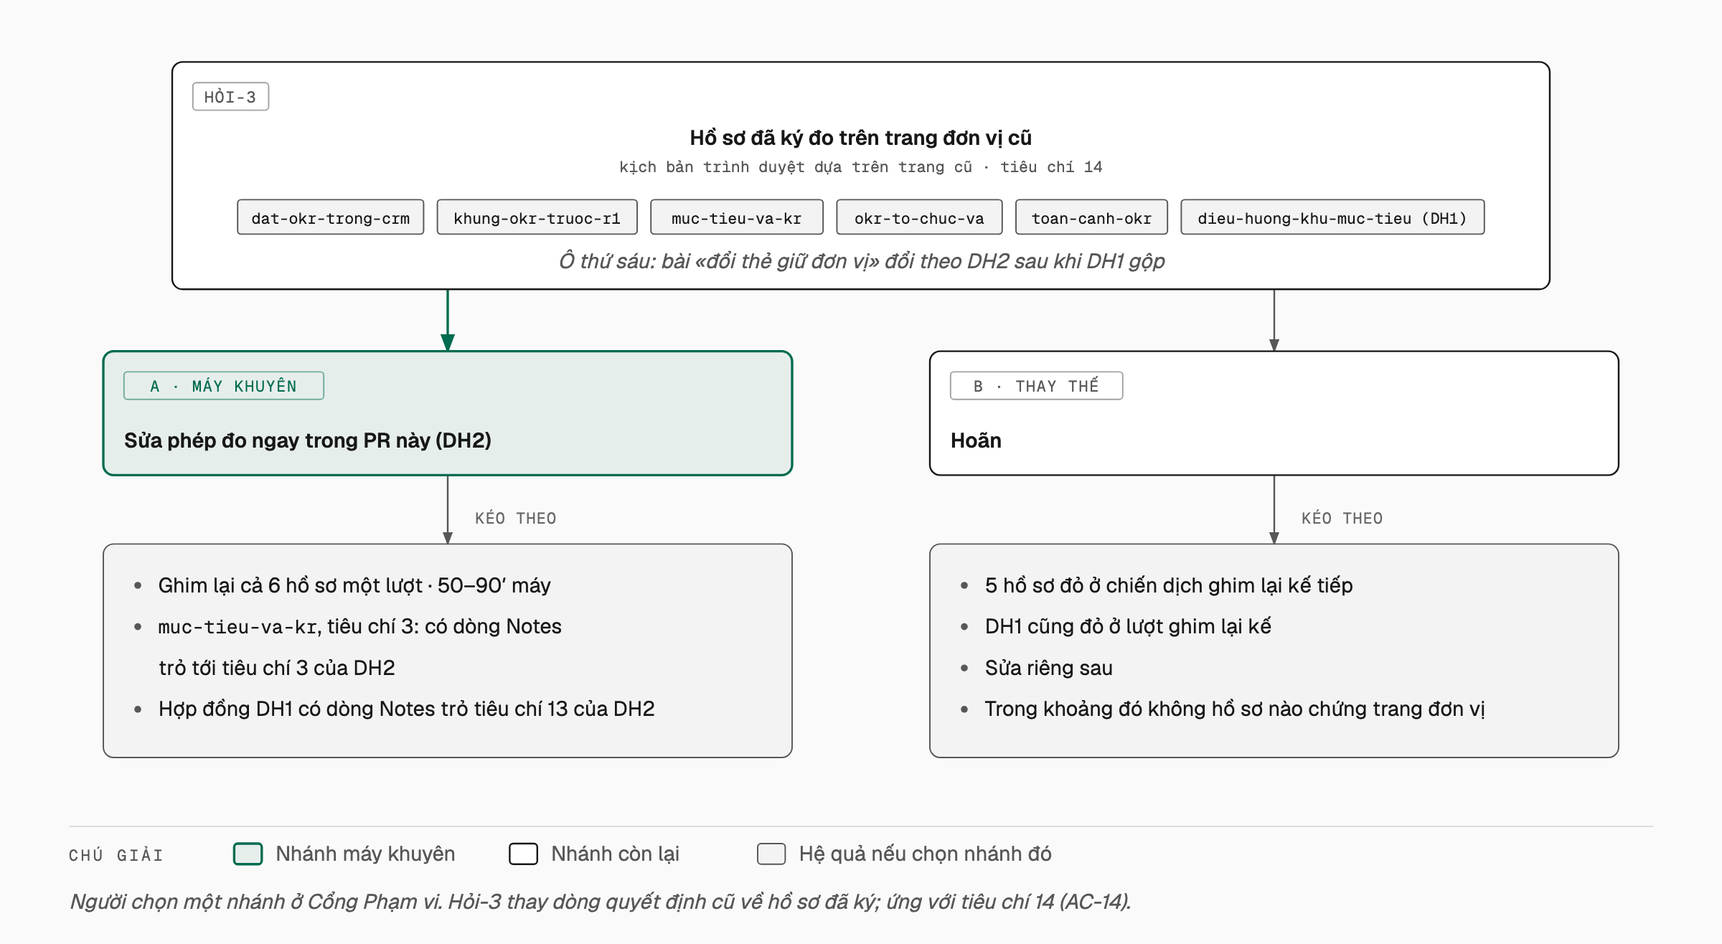
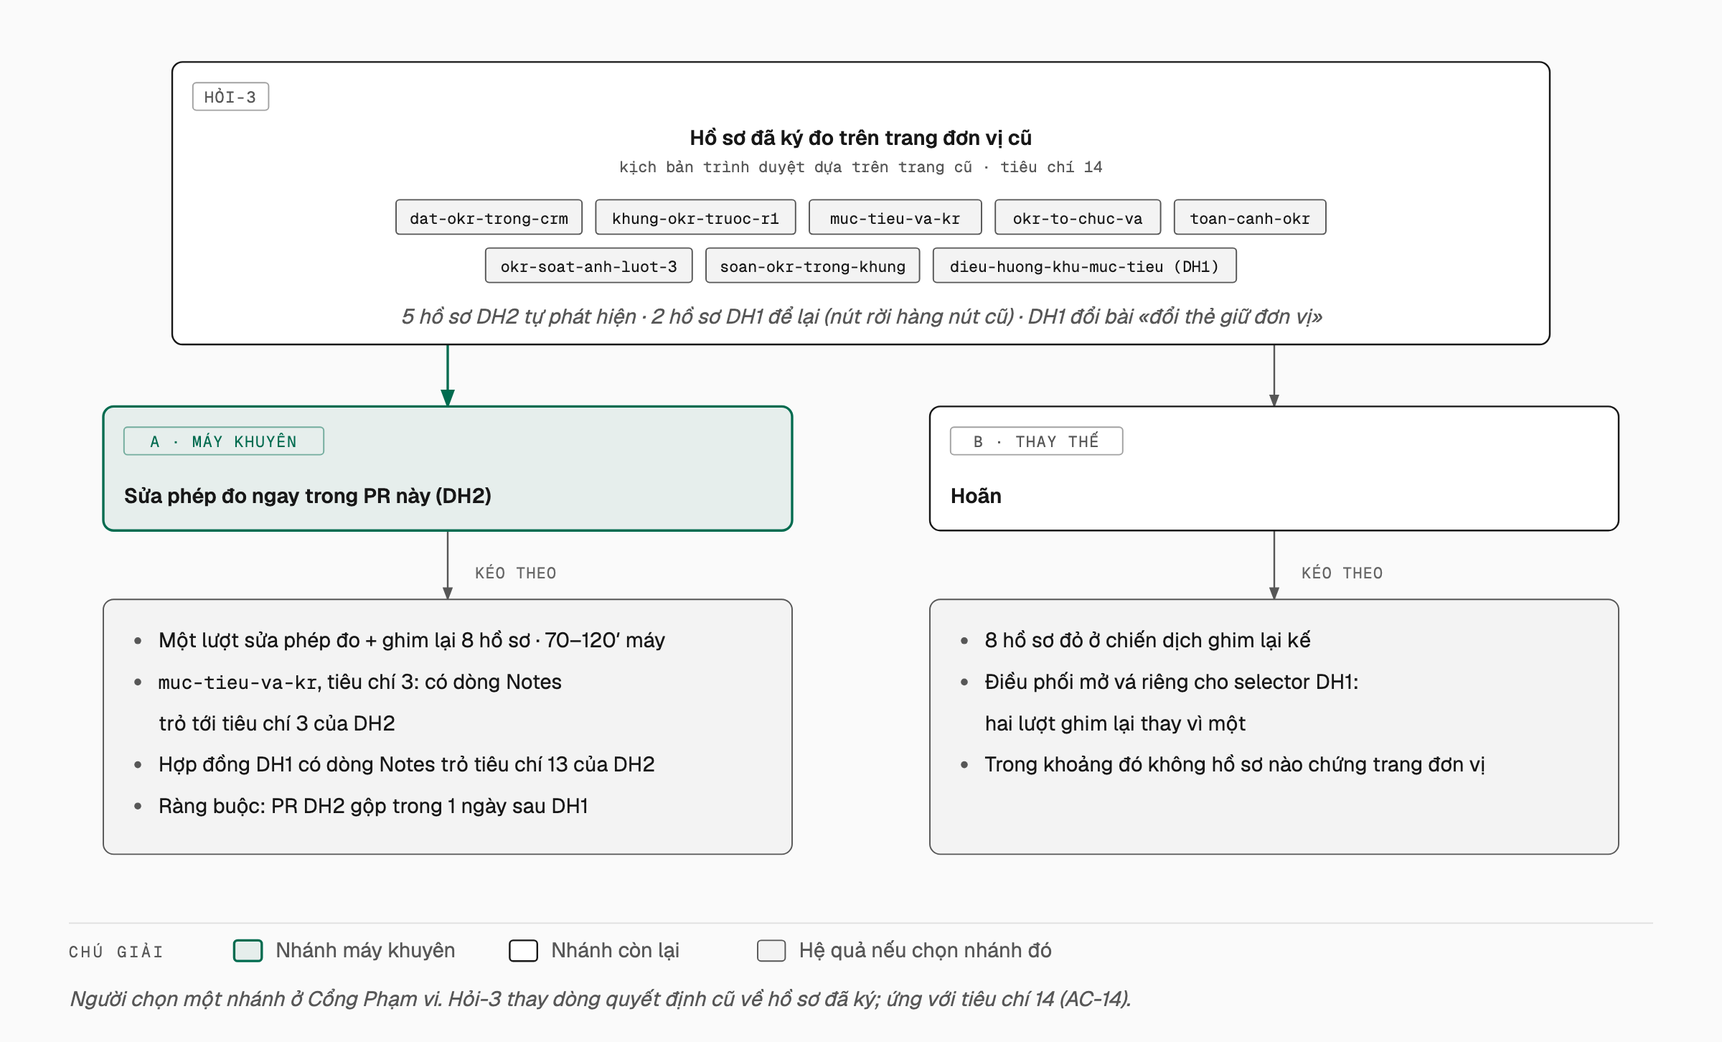
acceptance(trang-don-vi-mot-bang): Hỏi-3 thành một lượt ghim lại tám hồ sơ (gộp phần selector DH1, Điều phối M5 chia)

diff --git a/_acceptance/trang-don-vi-mot-bang/figures/hoi-3-nam-ho-so.html b/_acceptance/trang-don-vi-mot-bang/figures/hoi-3-nam-ho-so.html
@@ -27,24 +27,24 @@
   <div class="frame">
     <p class="eyebrow">Cổng Phạm vi · Hỏi-3</p>
     <h1>Hồ sơ đã ký đo trên trang cũ: sửa ngay hay hoãn?</h1>
-    <svg viewBox="0 0 1000 548" xmlns="http://www.w3.org/2000/svg" role="img" aria-label="Hỏi-3 · Hồ sơ đã ký đo trên trang cũ">
+    <svg viewBox="0 0 1000 604" xmlns="http://www.w3.org/2000/svg" role="img" aria-label="Hỏi-3 · Hồ sơ đã ký đo trên trang cũ">
       <defs>
         <marker id="arrow" markerWidth="8" markerHeight="6" refX="7" refY="3" orient="auto"><polygon points="0 0, 8 3, 0 6" fill="#575757"/></marker>
         <marker id="arrow-accent" markerWidth="8" markerHeight="6" refX="7" refY="3" orient="auto"><polygon points="0 0, 8 3, 0 6" fill="#006B4F"/></marker>
       </defs>
       <rect width="100%" height="100%" fill="#fafafa"/>
-<path d="M 260 168 L 260 204" fill="none" stroke="#006B4F" stroke-width="1.4" marker-end="url(#arrow-accent)"/>
-      <path d="M 740 168 L 740 204" fill="none" stroke="#575757" stroke-width="1" marker-end="url(#arrow)"/>
-      <path d="M 260 276 L 260 316" fill="none" stroke="#575757" stroke-width="1" marker-end="url(#arrow)"/>
-      <path d="M 740 276 L 740 316" fill="none" stroke="#575757" stroke-width="1" marker-end="url(#arrow)"/>
-      <rect x="272" y="292" width="64" height="16" rx="2" fill="#fafafa"/><text x="276" y="304" fill="#666666" font-size="9" font-family="'Geist Mono', monospace" letter-spacing="0.06em">KÉO THEO</text>
-      <rect x="752" y="292" width="64" height="16" rx="2" fill="#fafafa"/><text x="756" y="304" fill="#666666" font-size="9" font-family="'Geist Mono', monospace" letter-spacing="0.06em">KÉO THEO</text>
-      <rect x="100" y="36" width="800" height="132" rx="6" fill="#fafafa"/><rect x="100" y="36" width="800" height="132" rx="6" fill="#ffffff" stroke="#171717" stroke-width="1"/><rect x="112" y="48" width="44" height="16" rx="2" fill="transparent" stroke="rgba(23,23,23,0.4)" stroke-width="0.8"/><text x="134.0" y="59.5" fill="#575757" font-size="9" font-family="'Geist Mono', monospace" text-anchor="middle" letter-spacing="0.08em">HỎI-3</text><text x="500.0" y="84" fill="#171717" font-size="12" font-weight="600" font-family="'Geist', sans-serif" text-anchor="middle">Hồ sơ đã ký đo trên trang đơn vị cũ</text><text x="500.0" y="100" fill="#575757" font-size="9" font-family="'Geist Mono', monospace" text-anchor="middle">kịch bản trình duyệt dựa trên trang cũ · tiêu chí 14</text><rect x="138.0" y="116" width="108" height="20" rx="2" fill="rgba(23,23,23,0.05)" stroke="#575757" stroke-width="0.8"/><text x="192.0" y="130" fill="#171717" font-size="9" font-family="'Geist Mono', monospace" text-anchor="middle">dat-okr-trong-crm</text><rect x="254.0" y="116" width="116" height="20" rx="2" fill="rgba(23,23,23,0.05)" stroke="#575757" stroke-width="0.8"/><text x="312.0" y="130" fill="#171717" font-size="9" font-family="'Geist Mono', monospace" text-anchor="middle">khung-okr-truoc-r1</text><rect x="378.0" y="116" width="100" height="20" rx="2" fill="rgba(23,23,23,0.05)" stroke="#575757" stroke-width="0.8"/><text x="428.0" y="130" fill="#171717" font-size="9" font-family="'Geist Mono', monospace" text-anchor="middle">muc-tieu-va-kr</text><rect x="486.0" y="116" width="96" height="20" rx="2" fill="rgba(23,23,23,0.05)" stroke="#575757" stroke-width="0.8"/><text x="534.0" y="130" fill="#171717" font-size="9" font-family="'Geist Mono', monospace" text-anchor="middle">okr-to-chuc-va</text><rect x="590.0" y="116" width="88" height="20" rx="2" fill="rgba(23,23,23,0.05)" stroke="#575757" stroke-width="0.8"/><text x="634.0" y="130" fill="#171717" font-size="9" font-family="'Geist Mono', monospace" text-anchor="middle">toan-canh-okr</text><rect x="686.0" y="116" width="176" height="20" rx="2" fill="rgba(23,23,23,0.05)" stroke="#575757" stroke-width="0.8"/><text x="774.0" y="130" fill="#171717" font-size="9" font-family="'Geist Mono', monospace" text-anchor="middle">dieu-huong-khu-muc-tieu (DH1)</text><text x="500" y="156" fill="#575757" font-size="12" font-family="'Geist', sans-serif" font-style="italic" text-anchor="middle">Ô thứ sáu: bài «đổi thẻ giữ đơn vị» đổi theo DH2 sau khi DH1 gộp</text>
-      <rect x="60" y="204" width="400" height="72" rx="6" fill="#fafafa"/><rect x="60" y="204" width="400" height="72" rx="6" fill="rgba(0,107,79,0.08)" stroke="#006B4F" stroke-width="1.4"/><rect x="72" y="216" width="116" height="16" rx="2" fill="transparent" stroke="rgba(0,107,79,0.5)" stroke-width="0.8"/><text x="130.0" y="227.5" fill="#006B4F" font-size="9" font-family="'Geist Mono', monospace" text-anchor="middle" letter-spacing="0.08em">A · MÁY KHUYÊN</text><text x="72" y="260" fill="#171717" font-size="12" font-weight="600" font-family="'Geist', sans-serif">Sửa phép đo ngay trong PR này (DH2)</text>
-      <rect x="540" y="204" width="400" height="72" rx="6" fill="#fafafa"/><rect x="540" y="204" width="400" height="72" rx="6" fill="#ffffff" stroke="#171717" stroke-width="1"/><rect x="552" y="216" width="100" height="16" rx="2" fill="transparent" stroke="rgba(23,23,23,0.4)" stroke-width="0.8"/><text x="602.0" y="227.5" fill="#575757" font-size="9" font-family="'Geist Mono', monospace" text-anchor="middle" letter-spacing="0.08em">B · THAY THẾ</text><text x="552" y="260" fill="#171717" font-size="12" font-weight="600" font-family="'Geist', sans-serif">Hoãn</text>
-      <rect x="60" y="316" width="400" height="124" rx="6" fill="#fafafa"/><rect x="60" y="316" width="400" height="124" rx="6" fill="rgba(23,23,23,0.03)" stroke="#575757" stroke-width="0.8"/><circle cx="80" cy="340" r="2" fill="#575757"/><text x="92" y="344" fill="#171717" font-size="12" font-family="'Geist', sans-serif">Ghim lại cả 6 hồ sơ một lượt · 50–90′ máy</text><circle cx="80" cy="364" r="2" fill="#575757"/><text x="92" y="368" fill="#171717" font-size="12" font-family="'Geist', sans-serif"><tspan font-family="'Geist Mono', monospace" font-size="11">muc-tieu-va-kr</tspan>, tiêu chí 3: có dòng Notes</text><text x="92" y="392" fill="#171717" font-size="12" font-family="'Geist', sans-serif">trỏ tới tiêu chí 3 của DH2</text><circle cx="80" cy="412" r="2" fill="#575757"/><text x="92" y="416" fill="#171717" font-size="12" font-family="'Geist', sans-serif">Hợp đồng DH1 có dòng Notes trỏ tiêu chí 13 của DH2</text>
-      <rect x="540" y="316" width="400" height="124" rx="6" fill="#fafafa"/><rect x="540" y="316" width="400" height="124" rx="6" fill="rgba(23,23,23,0.03)" stroke="#575757" stroke-width="0.8"/><circle cx="560" cy="340" r="2" fill="#575757"/><text x="572" y="344" fill="#171717" font-size="12" font-family="'Geist', sans-serif">5 hồ sơ đỏ ở chiến dịch ghim lại kế tiếp</text><circle cx="560" cy="364" r="2" fill="#575757"/><text x="572" y="368" fill="#171717" font-size="12" font-family="'Geist', sans-serif">DH1 cũng đỏ ở lượt ghim lại kế</text><circle cx="560" cy="388" r="2" fill="#575757"/><text x="572" y="392" fill="#171717" font-size="12" font-family="'Geist', sans-serif">Sửa riêng sau</text><circle cx="560" cy="412" r="2" fill="#575757"/><text x="572" y="416" fill="#171717" font-size="12" font-family="'Geist', sans-serif">Trong khoảng đó không hồ sơ nào chứng trang đơn vị</text>
-      <line x1="40" y1="480" x2="960" y2="480" stroke="rgba(23,23,23,0.12)" stroke-width="0.8"/><text x="40" y="500" fill="#575757" font-size="9" font-family="'Geist Mono', monospace" letter-spacing="0.18em">CHÚ GIẢI</text><rect x="136" y="490" width="16" height="12" rx="2" fill="rgba(0,107,79,0.08)" stroke="#006B4F" stroke-width="1.4"/><text x="160" y="500" fill="#575757" font-size="12" font-family="'Geist', sans-serif">Nhánh máy khuyên</text><rect x="296" y="490" width="16" height="12" rx="2" fill="#ffffff" stroke="#171717" stroke-width="1"/><text x="320" y="500" fill="#575757" font-size="12" font-family="'Geist', sans-serif">Nhánh còn lại</text><rect x="440" y="490" width="16" height="12" rx="2" fill="rgba(23,23,23,0.03)" stroke="#575757" stroke-width="0.8"/><text x="464" y="500" fill="#575757" font-size="12" font-family="'Geist', sans-serif">Hệ quả nếu chọn nhánh đó</text><text x="40" y="528" fill="#575757" font-size="12" font-family="'Geist', sans-serif" font-style="italic">Người chọn một nhánh ở Cổng Phạm vi. Hỏi-3 thay dòng quyết định cũ về hồ sơ đã ký; ứng với tiêu chí 14 (AC-14).</text>
+<path d="M 260 200 L 260 236" fill="none" stroke="#006B4F" stroke-width="1.4" marker-end="url(#arrow-accent)"/>
+      <path d="M 740 200 L 740 236" fill="none" stroke="#575757" stroke-width="1" marker-end="url(#arrow)"/>
+      <path d="M 260 308 L 260 348" fill="none" stroke="#575757" stroke-width="1" marker-end="url(#arrow)"/>
+      <path d="M 740 308 L 740 348" fill="none" stroke="#575757" stroke-width="1" marker-end="url(#arrow)"/>
+      <rect x="272" y="324" width="64" height="16" rx="2" fill="#fafafa"/><text x="276" y="336" fill="#666666" font-size="9" font-family="'Geist Mono', monospace" letter-spacing="0.06em">KÉO THEO</text>
+      <rect x="752" y="324" width="64" height="16" rx="2" fill="#fafafa"/><text x="756" y="336" fill="#666666" font-size="9" font-family="'Geist Mono', monospace" letter-spacing="0.06em">KÉO THEO</text>
+      <rect x="100" y="36" width="800" height="164" rx="6" fill="#fafafa"/><rect x="100" y="36" width="800" height="164" rx="6" fill="#ffffff" stroke="#171717" stroke-width="1"/><rect x="112" y="48" width="44" height="16" rx="2" fill="transparent" stroke="rgba(23,23,23,0.4)" stroke-width="0.8"/><text x="134.0" y="59.5" fill="#575757" font-size="9" font-family="'Geist Mono', monospace" text-anchor="middle" letter-spacing="0.08em">HỎI-3</text><text x="500.0" y="84" fill="#171717" font-size="12" font-weight="600" font-family="'Geist', sans-serif" text-anchor="middle">Hồ sơ đã ký đo trên trang đơn vị cũ</text><text x="500.0" y="100" fill="#575757" font-size="9" font-family="'Geist Mono', monospace" text-anchor="middle">kịch bản trình duyệt dựa trên trang cũ · tiêu chí 14</text><rect x="230.0" y="116" width="108" height="20" rx="2" fill="rgba(23,23,23,0.05)" stroke="#575757" stroke-width="0.8"/><text x="284.0" y="130" fill="#171717" font-size="9" font-family="'Geist Mono', monospace" text-anchor="middle">dat-okr-trong-crm</text><rect x="346.0" y="116" width="116" height="20" rx="2" fill="rgba(23,23,23,0.05)" stroke="#575757" stroke-width="0.8"/><text x="404.0" y="130" fill="#171717" font-size="9" font-family="'Geist Mono', monospace" text-anchor="middle">khung-okr-truoc-r1</text><rect x="470.0" y="116" width="100" height="20" rx="2" fill="rgba(23,23,23,0.05)" stroke="#575757" stroke-width="0.8"/><text x="520.0" y="130" fill="#171717" font-size="9" font-family="'Geist Mono', monospace" text-anchor="middle">muc-tieu-va-kr</text><rect x="578.0" y="116" width="96" height="20" rx="2" fill="rgba(23,23,23,0.05)" stroke="#575757" stroke-width="0.8"/><text x="626.0" y="130" fill="#171717" font-size="9" font-family="'Geist Mono', monospace" text-anchor="middle">okr-to-chuc-va</text><rect x="682.0" y="116" width="88" height="20" rx="2" fill="rgba(23,23,23,0.05)" stroke="#575757" stroke-width="0.8"/><text x="726.0" y="130" fill="#171717" font-size="9" font-family="'Geist Mono', monospace" text-anchor="middle">toan-canh-okr</text><rect x="282.0" y="144" width="120" height="20" rx="2" fill="rgba(23,23,23,0.05)" stroke="#575757" stroke-width="0.8"/><text x="342.0" y="158" fill="#171717" font-size="9" font-family="'Geist Mono', monospace" text-anchor="middle">okr-soat-anh-luot-3</text><rect x="410.0" y="144" width="124" height="20" rx="2" fill="rgba(23,23,23,0.05)" stroke="#575757" stroke-width="0.8"/><text x="472.0" y="158" fill="#171717" font-size="9" font-family="'Geist Mono', monospace" text-anchor="middle">soan-okr-trong-khung</text><rect x="542.0" y="144" width="176" height="20" rx="2" fill="rgba(23,23,23,0.05)" stroke="#575757" stroke-width="0.8"/><text x="630.0" y="158" fill="#171717" font-size="9" font-family="'Geist Mono', monospace" text-anchor="middle">dieu-huong-khu-muc-tieu (DH1)</text><text x="500" y="188" fill="#575757" font-size="12" font-family="'Geist', sans-serif" font-style="italic" text-anchor="middle">5 hồ sơ DH2 tự phát hiện · 2 hồ sơ DH1 để lại (nút rời hàng nút cũ) · DH1 đổi bài «đổi thẻ giữ đơn vị»</text>
+      <rect x="60" y="236" width="400" height="72" rx="6" fill="#fafafa"/><rect x="60" y="236" width="400" height="72" rx="6" fill="rgba(0,107,79,0.08)" stroke="#006B4F" stroke-width="1.4"/><rect x="72" y="248" width="116" height="16" rx="2" fill="transparent" stroke="rgba(0,107,79,0.5)" stroke-width="0.8"/><text x="130.0" y="259.5" fill="#006B4F" font-size="9" font-family="'Geist Mono', monospace" text-anchor="middle" letter-spacing="0.08em">A · MÁY KHUYÊN</text><text x="72" y="292" fill="#171717" font-size="12" font-weight="600" font-family="'Geist', sans-serif">Sửa phép đo ngay trong PR này (DH2)</text>
+      <rect x="540" y="236" width="400" height="72" rx="6" fill="#fafafa"/><rect x="540" y="236" width="400" height="72" rx="6" fill="#ffffff" stroke="#171717" stroke-width="1"/><rect x="552" y="248" width="100" height="16" rx="2" fill="transparent" stroke="rgba(23,23,23,0.4)" stroke-width="0.8"/><text x="602.0" y="259.5" fill="#575757" font-size="9" font-family="'Geist Mono', monospace" text-anchor="middle" letter-spacing="0.08em">B · THAY THẾ</text><text x="552" y="292" fill="#171717" font-size="12" font-weight="600" font-family="'Geist', sans-serif">Hoãn</text>
+      <rect x="60" y="348" width="400" height="148" rx="6" fill="#fafafa"/><rect x="60" y="348" width="400" height="148" rx="6" fill="rgba(23,23,23,0.03)" stroke="#575757" stroke-width="0.8"/><circle cx="80" cy="372" r="2" fill="#575757"/><text x="92" y="376" fill="#171717" font-size="12" font-family="'Geist', sans-serif">Một lượt sửa phép đo + ghim lại 8 hồ sơ · 70–120′ máy</text><circle cx="80" cy="396" r="2" fill="#575757"/><text x="92" y="400" fill="#171717" font-size="12" font-family="'Geist', sans-serif"><tspan font-family="'Geist Mono', monospace" font-size="11">muc-tieu-va-kr</tspan>, tiêu chí 3: có dòng Notes</text><text x="92" y="424" fill="#171717" font-size="12" font-family="'Geist', sans-serif">trỏ tới tiêu chí 3 của DH2</text><circle cx="80" cy="444" r="2" fill="#575757"/><text x="92" y="448" fill="#171717" font-size="12" font-family="'Geist', sans-serif">Hợp đồng DH1 có dòng Notes trỏ tiêu chí 13 của DH2</text><circle cx="80" cy="468" r="2" fill="#575757"/><text x="92" y="472" fill="#171717" font-size="12" font-family="'Geist', sans-serif">Ràng buộc: PR DH2 gộp trong 1 ngày sau DH1</text>
+      <rect x="540" y="348" width="400" height="148" rx="6" fill="#fafafa"/><rect x="540" y="348" width="400" height="148" rx="6" fill="rgba(23,23,23,0.03)" stroke="#575757" stroke-width="0.8"/><circle cx="560" cy="372" r="2" fill="#575757"/><text x="572" y="376" fill="#171717" font-size="12" font-family="'Geist', sans-serif">8 hồ sơ đỏ ở chiến dịch ghim lại kế</text><circle cx="560" cy="396" r="2" fill="#575757"/><text x="572" y="400" fill="#171717" font-size="12" font-family="'Geist', sans-serif">Điều phối mở vá riêng cho selector DH1:</text><text x="572" y="424" fill="#171717" font-size="12" font-family="'Geist', sans-serif">hai lượt ghim lại thay vì một</text><circle cx="560" cy="444" r="2" fill="#575757"/><text x="572" y="448" fill="#171717" font-size="12" font-family="'Geist', sans-serif">Trong khoảng đó không hồ sơ nào chứng trang đơn vị</text>
+      <line x1="40" y1="536" x2="960" y2="536" stroke="rgba(23,23,23,0.12)" stroke-width="0.8"/><text x="40" y="556" fill="#575757" font-size="9" font-family="'Geist Mono', monospace" letter-spacing="0.18em">CHÚ GIẢI</text><rect x="136" y="546" width="16" height="12" rx="2" fill="rgba(0,107,79,0.08)" stroke="#006B4F" stroke-width="1.4"/><text x="160" y="556" fill="#575757" font-size="12" font-family="'Geist', sans-serif">Nhánh máy khuyên</text><rect x="296" y="546" width="16" height="12" rx="2" fill="#ffffff" stroke="#171717" stroke-width="1"/><text x="320" y="556" fill="#575757" font-size="12" font-family="'Geist', sans-serif">Nhánh còn lại</text><rect x="440" y="546" width="16" height="12" rx="2" fill="rgba(23,23,23,0.03)" stroke="#575757" stroke-width="0.8"/><text x="464" y="556" fill="#575757" font-size="12" font-family="'Geist', sans-serif">Hệ quả nếu chọn nhánh đó</text><text x="40" y="584" fill="#575757" font-size="12" font-family="'Geist', sans-serif" font-style="italic">Người chọn một nhánh ở Cổng Phạm vi. Hỏi-3 thay dòng quyết định cũ về hồ sơ đã ký; ứng với tiêu chí 14 (AC-14).</text>
     </svg>
   </div>
 </body>

diff --git a/_acceptance/trang-don-vi-mot-bang/contract.md b/_acceptance/trang-don-vi-mot-bang/contract.md
@@ -38,7 +38,7 @@ Source input: hàng DH2 `docs/plan/lo-trinh-okr.json`; `docs/plan/pham-vi-okr-di
 - AC-11: Given `/proto/trang-don-vi-mot-bang` khi bật `PROTO_ROUTE=1`, When mở từng state, Then có đúng một state cho mỗi dòng của bảng trạng thái trong thiết kế, mỗi state cho một cây DOM khác nhau; phép đo sổ bản mẫu xanh.
 - AC-12: Given ảnh trang đơn vị ở Danh sách (thu và mở KR), Họp tuần, ô chọn đơn vị đang mở và Thoả thuận ở 1440 px và 390 px do E2 chụp, When một người không làm lượt này đặt cạnh nhau, Then họ đọc được trang đơn vị dùng cùng một khuôn bảng với Thoả thuận — ô chọn ở chỗ ô tìm kiếm, một hàng công cụ, bảng, chân bảng — và tìm được KR của một mục tiêu mà không cần đọc chữ hướng dẫn. (judgment)
 - AC-13: Given đang xem Theo đơn vị của đơn vị X ở cách xem V (Cây căn chỉnh, Họp tuần hoặc Chấm điểm) và chu kỳ K, When đi qua một thẻ khác của khu bằng thanh thẻ rồi quay lại Theo đơn vị, Then trang mở lại đúng X, K và cách xem V; liên kết của thanh thẻ mang `xemOkr` cùng `kyOkr`, `donOkr` khi đường dẫn đang có nó (bổ sung khoá thứ ba vào lời hứa «đổi thẻ giữ đơn vị và chu kỳ» của DH1, không mang khoá nào khác); cách xem không hợp với chu kỳ (Chấm điểm ngoài pha chấm) rơi về Danh sách như hôm nay; hợp đồng `dieu-huong-khu-muc-tieu` có một dòng Notes trỏ AC này ở hồ sơ này, vì lời hứa AC-6 của nó («không mang khoá nào khác») được nới thêm `xemOkr`.
-- AC-14: Given năm hồ sơ đã ký có kịch bản đo trình duyệt dựa trên trang đơn vị cũ — `dat-okr-trong-crm`, `khung-okr-truoc-r1`, `muc-tieu-va-kr`, `okr-to-chuc-va`, `toan-canh-okr` (bấm `[data-nut-cay]`, chờ `[data-hang-nut]`, đọc `thuMucTieu`, đi phím trên cây «Đơn vị») — When lượt sửa phép đo của chúng rồi chạy làn ghim lại tại một commit đã có trang mới, Then cả năm ghim xanh; mỗi chỗ sửa trong `rang/` của chúng chỉ đổi cách tới trạng thái (chọn đơn vị bằng `donOkr` hoặc ô chọn, thu/mở bằng `expand`) và không bỏ điều khẳng định nào khác; lời hứa đã ký nào trái trang mới (trang đơn vị mở sẵn mọi mục tiêu và nhớ dòng thu bằng `thuMucTieu` — AC-3 của `muc-tieu-va-kr`) có một dòng Notes trong hợp đồng của hồ sơ đó trỏ AC thay nó ở hồ sơ này.
+- AC-14: Given các hồ sơ đã ký có kịch bản đo trình duyệt dựa trên trang đơn vị trước DH1 và DH2 — `dat-okr-trong-crm`, `khung-okr-truoc-r1`, `muc-tieu-va-kr`, `okr-to-chuc-va`, `toan-canh-okr`, `okr-soat-anh-luot-3`, `soan-okr-trong-khung` (bấm `[data-nut-cay]`, chờ `[data-hang-nut]` hay `[data-nhom-soan]` trong thân, đọc `thuMucTieu`, đi phím trên cây «Đơn vị») cùng `dieu-huong-khu-muc-tieu` (bài `dhk-giu-don`, AC-13) — When lượt sửa phép đo của chúng (cả phần selector DH1 để lại, Điều phối M5 chia 15/10) rồi chạy MỘT lượt làn ghim lại tại một commit đã có trang mới, Then cả tám ghim xanh; mỗi chỗ sửa trong `rang/` của chúng chỉ đổi cách tới trạng thái (chọn đơn vị bằng `donOkr` hoặc ô chọn, thu/mở bằng `expand`) và không bỏ điều khẳng định nào khác; lời hứa đã ký nào trái trang mới (trang đơn vị mở sẵn mọi mục tiêu và nhớ dòng thu bằng `thuMucTieu` — AC-3 của `muc-tieu-va-kr`) có một dòng Notes trong hợp đồng của hồ sơ đó trỏ AC thay nó ở hồ sơ này.
 
 ## Coverage
 
@@ -74,7 +74,9 @@ Quét bằng `morphological-scan` trong phiên (15/10), bảng đủ ở `covera
   nhanh của lượt này là `tabs` của `DataTable` — số do `DataTable` vẽ từ `facetCounts`, không có `ToggleGroupItem`
   nào tự vẽ số — nên không chạm thước đó; `ViewSwitch` dùng như hiện có. NM2 gộp trước thì lượt gộp `onehub` vào
   nhánh rồi chạy lại E7, E8.
-- `khung-okr-truoc-r1/rang/bon-vai.mjs` bị cả DH1 (gỡ nút khỏi `[data-hang-nut]`) lẫn DH2 (bỏ `[data-hang-nut]`)
-  chạm: chỉ một bên sửa — Điều phối M5 đang hỏi DH1; DH1 sửa trước thì AC-14 của lượt này dựng trên bản đó.
-- Sau khi DH1 gộp, bài `dhk-giu-don` của DH1 đổi trong PR này (AC-13) nên hồ sơ `dieu-huong-khu-muc-tieu` cũng vào
-  cùng lượt ghim lại với năm hồ sơ của AC-14 — sáu hồ sơ một lượt, ước 50–90 phút máy (Điều phối M5 đồng ý 15/10).
+- `khung-okr-truoc-r1/rang/bon-vai.mjs` bị cả DH1 lẫn DH2 chạm: DH1 KHÔNG sửa, DH2 giữ toàn bộ phần sửa (Điều phối M5, 15/10).
+- Lượt ghim lại của AC-14 gồm tám hồ sơ: năm hồ sơ DH2 tự phát hiện, hai hồ sơ DH1 khai giới hạn ở Gate 2 của nó
+  (`okr-soat-anh-luot-3`, `soan-okr-trong-khung` — selector `[data-hang-nut]`/`[data-nhom-soan]` sau khi DH1 dời nút lên
+  đầu trang) và `dieu-huong-khu-muc-tieu` (bài `dhk-giu-don` đổi theo AC-13). Ước 70–120 phút máy. Ràng buộc của Điều
+  phối M5: PR DH2 gộp trong vòng 1 ngày sau DH1; trễ hơn thì M5 mở vá riêng cho phần selector của DH1 và AC-14 thu
+  về phần của DH2.
